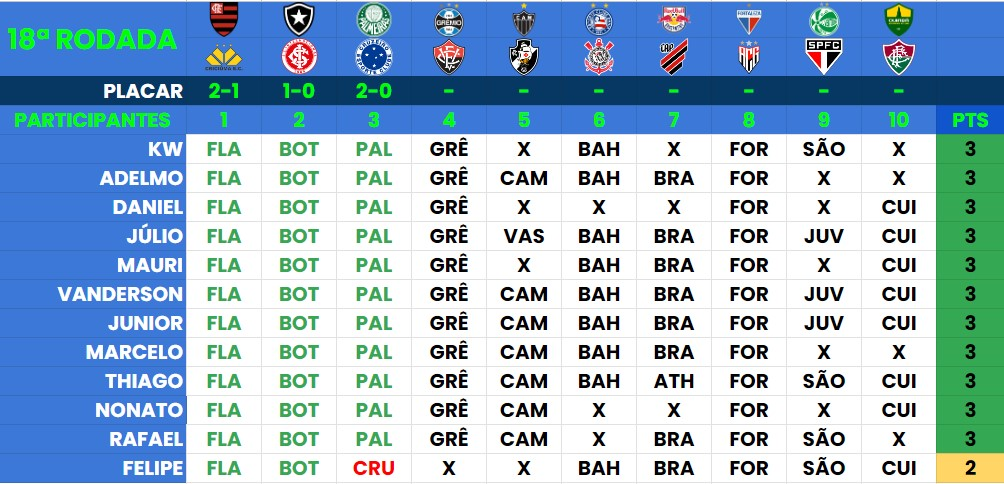
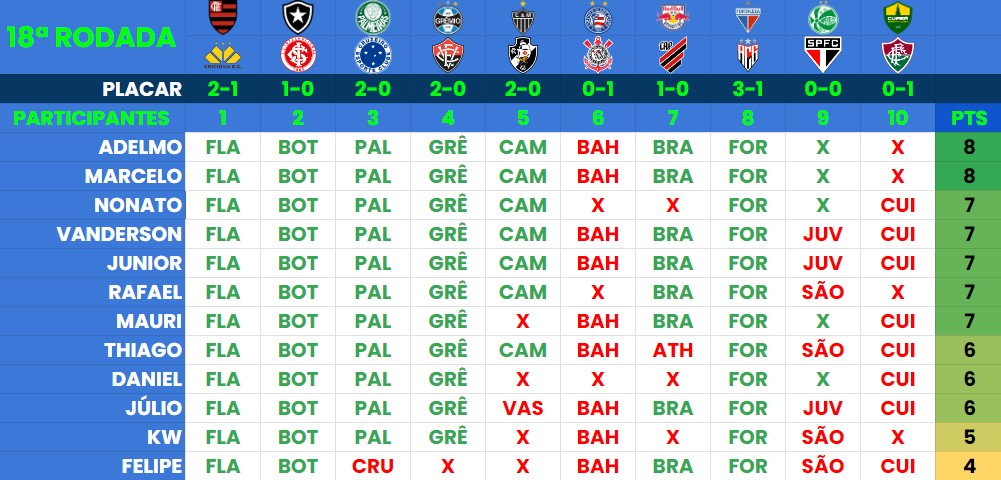
U

diff --git a/index.html b/index.html
@@ -51,10 +51,10 @@
           <img src="./assets/Round18.jpg" alt="Logo do Campeonato Brasileiro 2022" />
         </div>
         <div class="text">
-          <h2 class="title"><a href="./predictor.html">Mercado fechado!</a>
+          <h2 class="title"><a href="./predictor.html">Adelmo e Marcelo vencem a Rodada 18</a>
           </h2>
           <p>
-            Rodada começa neste sábado às 16:00
+            Júnior continua na liderança com 90 pontos.
           </p>
           <a class="button" href="./predictor.html">Resumo da 18ª Rodada</a>
         </div>
@@ -177,17 +177,7 @@
           <div class="content">
             <h2 class="rank"><small>#</small>1</h2>
             <h4>Júnior</h4>
-            <p>83 Pontos</p>
-          </div>
-        </div>
-        <div class="list">
-          <div class="imgBx">
-            <img src="./assets/fotos/fortaleza.png">
-          </div>
-          <div class="content">
-            <h2 class="rank"><small>#</small>2</h2>
-            <h4>KW</h4>
-            <p>82 Pontos</p>
+            <p>90 Pontos</p>
           </div>
         </div>
         <div class="list">
@@ -195,19 +185,9 @@
             <img src="./assets/fotos/santacruz.png">
           </div>
           <div class="content">
-            <h2 class="rank"><small>#</small>3</h2>
+            <h2 class="rank"><small>#</small>2</h2>
             <h4>Adelmo</h4>
-            <p>81 Pontos</p>
-          </div>
-        </div>
-        <div class="list">
-          <div class="imgBx">
-            <img src="./assets/fotos/ceará.png">
-          </div>
-          <div class="content">
-            <h2 class="rank"><small>#</small>4</h2>
-            <h4>Thiago</h4>
-            <p>79 Pontos</p>
+            <p>89 Pontos</p>
           </div>
         </div>
         <div class="list">
@@ -215,9 +195,9 @@
             <img src="./assets/fotos/fortaleza.png">
           </div>
           <div class="content">
-            <h2 class="rank"><small>#</small>5</h2>
-            <h4>Mauri</h4>
-            <p>78 Pontos</p>
+            <h2 class="rank"><small>#</small>3</h2>
+            <h4>KW</h4>
+            <p>87 Pontos</p>
           </div>
         </div>
         <div class="list">
@@ -225,9 +205,29 @@
             <img src="./assets/fotos/palmeiras.png">
           </div>
           <div class="content">
-            <h2 class="rank"><small>#</small>6</h2>
+            <h2 class="rank"><small>#</small>4</h2>
             <h4>Marcelo</h4>
-            <p>78 Pontos</p>
+            <p>86 Pontos</p>
+          </div>
+        </div>
+        <div class="list">
+          <div class="imgBx">
+            <img src="./assets/fotos/ceará.png">
+          </div>
+          <div class="content">
+            <h2 class="rank"><small>#</small>5</h2>
+            <h4>Thiago</h4>
+            <p>85 Pontos</p>
+          </div>
+        </div>
+        <div class="list">
+          <div class="imgBx">
+            <img src="./assets/fotos/fortaleza.png">
+          </div>
+          <div class="content">
+            <h2 class="rank"><small>#</small>6</h2>
+            <h4>Mauri</h4>
+            <p>85 Pontos</p>
           </div>
         </div>
         <div class="list">
@@ -237,7 +237,7 @@
           <div class="content">
             <h2 class="rank"><small>#</small>7</h2>
             <h4>Daniel</h4>
-            <p>77 Pontos</p>
+            <p>83 Pontos</p>
           </div>
         </div>
         <div class="list">
@@ -247,7 +247,7 @@
           <div class="content">
             <h2 class="rank"><small>#</small>8</h2>
             <h4>Júlio César</h4>
-            <p>77 Pontos</p>
+            <p>83 Pontos</p>
           </div>
         </div>
         <div class="list">
@@ -257,7 +257,7 @@
           <div class="content">
             <h2 class="rank"><small>#</small>9</h2>
             <h4>Felipe</h4>
-            <p>76 Pontos</p>
+            <p>80 Pontos</p>
           </div>
         </div>
         <div class="list">
@@ -267,7 +267,7 @@
           <div class="content">
             <h2 class="rank"><small>#</small>10</h2>
             <h4>Nonato</h4>
-            <p>73 Pontos</p>
+            <p>80 Pontos</p>
           </div>
         </div>
         <div class="list">
@@ -277,7 +277,7 @@
           <div class="content">
             <h2 class="rank"><small>#</small>11</h2>
             <h4>Rafael</h4>
-            <p>71 Pontos</p>
+            <p>78 Pontos</p>
           </div>
         </div>
         <div class="list">
@@ -287,7 +287,7 @@
           <div class="content">
             <h2 class="rank"><small>#</small>12</h2>
             <h4>Vanderson</h4>
-            <p>71 Pontos</p>
+            <p>78 Pontos</p>
           </div>
         </div>
       </div>
